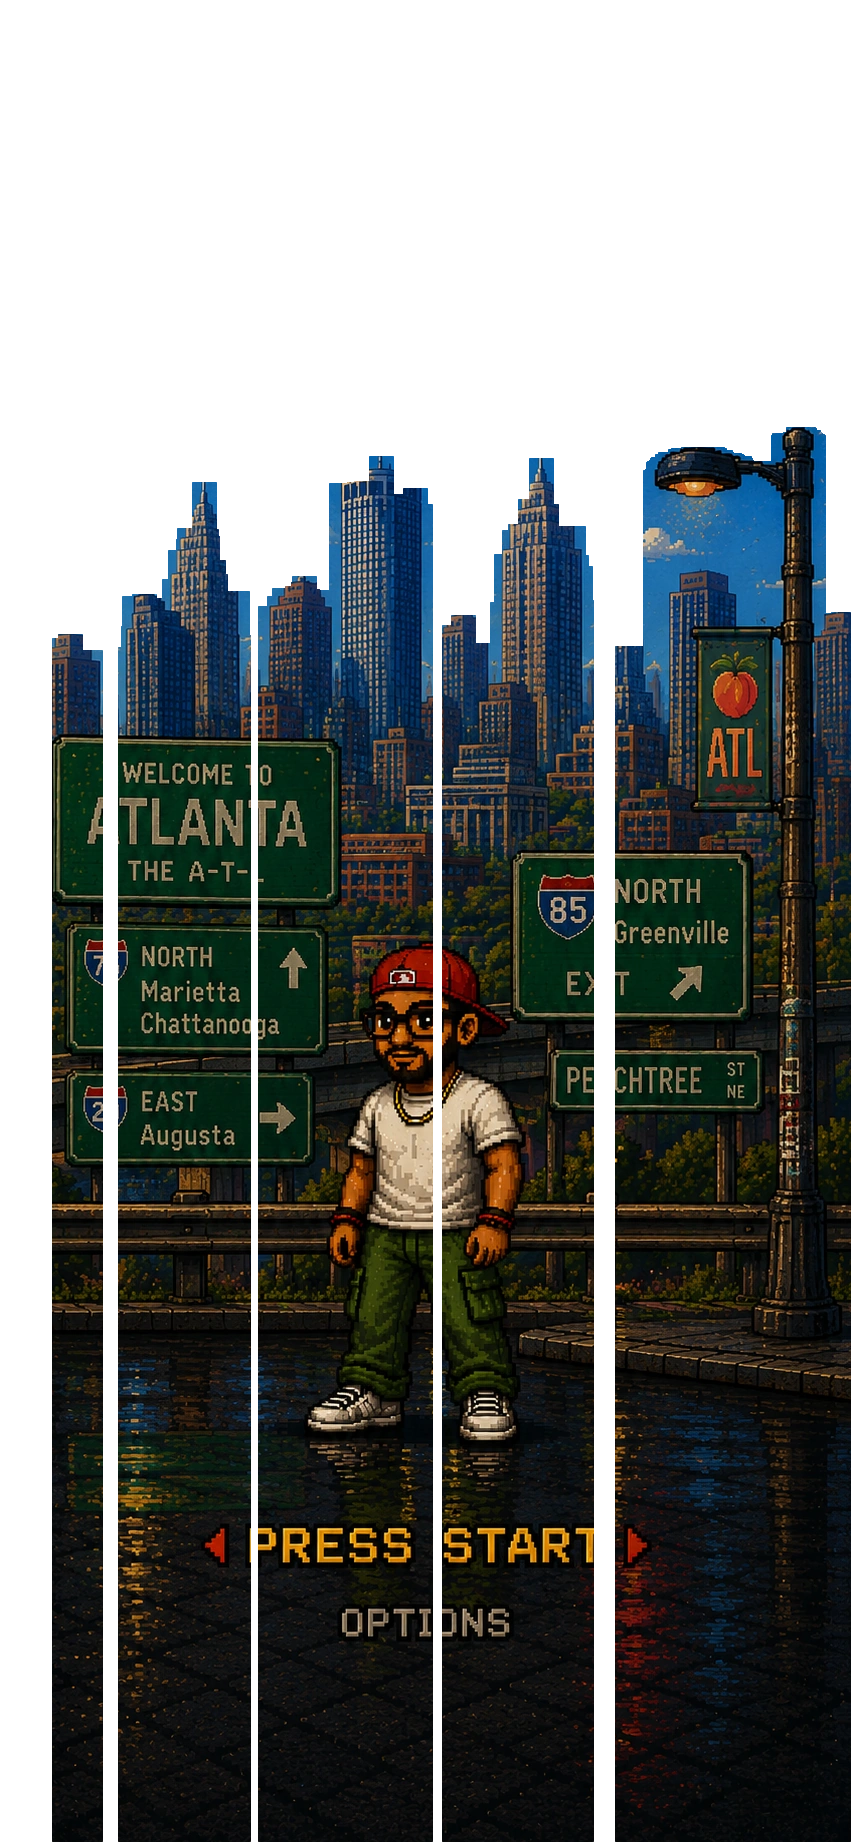
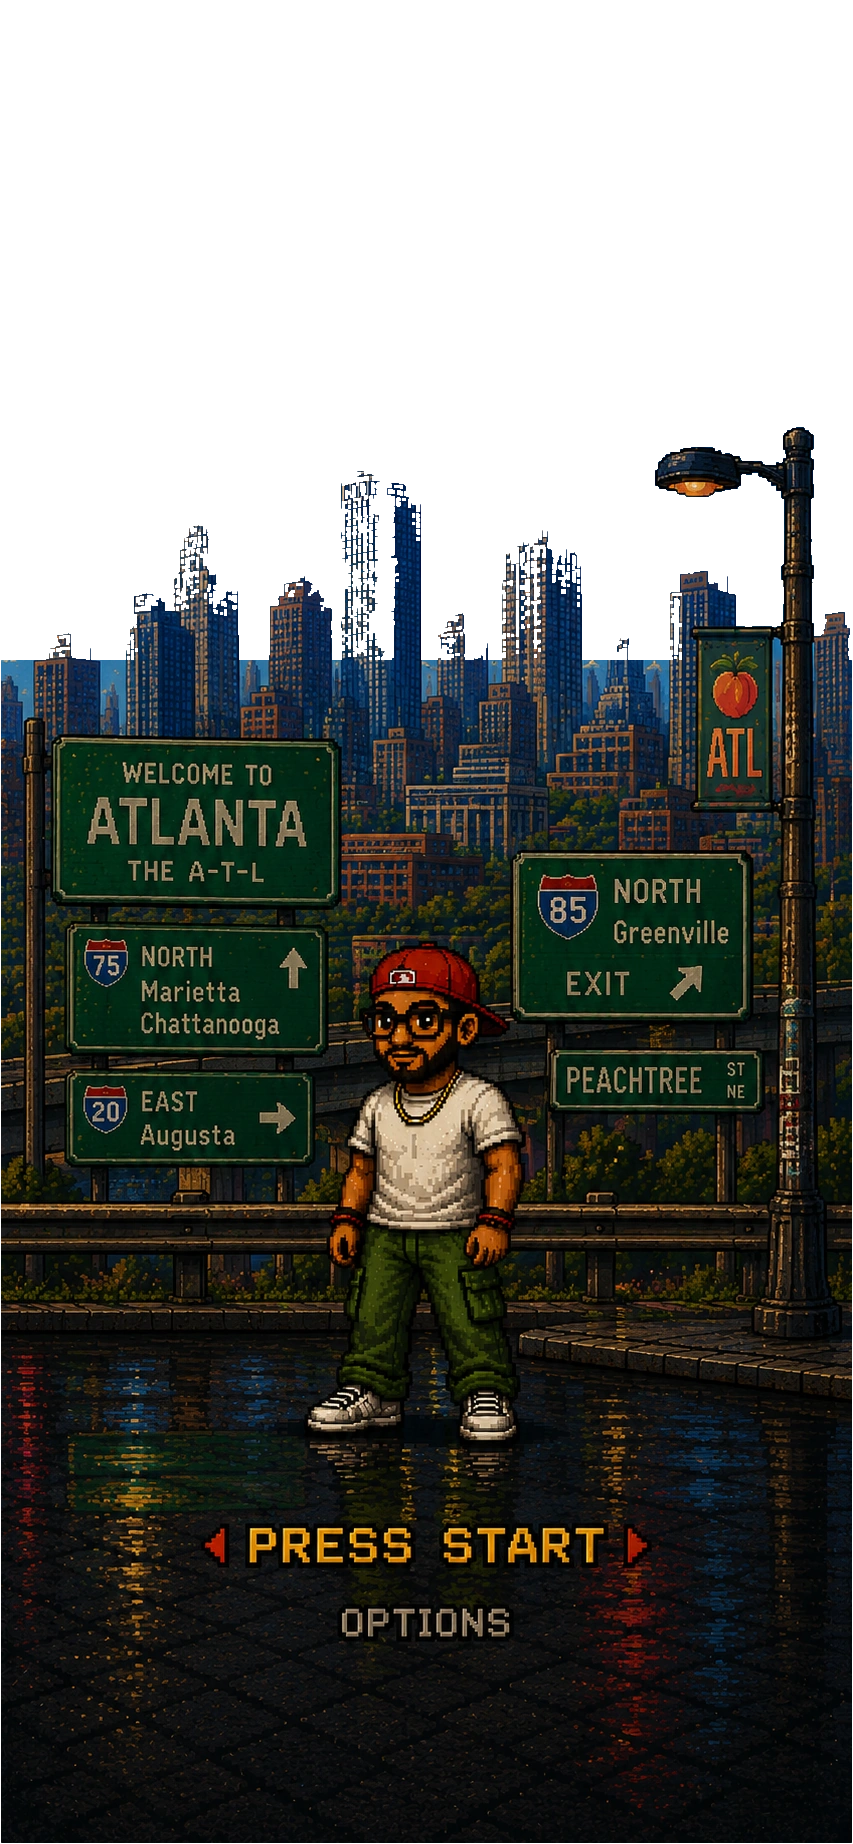
Clouds hide behind buildings only -- not behind sky, and no cut-out edges
Client, on the deployed build: "clouds can be seen moving behind the
fill space from cut outs.... not cool", then the rule plainly: "only
behind buildings.... and other white clouds. But never behind the sky,
former holes or patches and etc".

Both halves were real and both were mine.

1. THE TOWERS CARD CONTAINED SKY. It was built by taking a per-column
   skyline and filling downward from it, with that skyline minimum-
   filtered over 25 columns to be "conservative". Both parts put open
   sky inside the card: the min-filter dragged each spire's tip
   sideways across its 25 neighbours, and filling downward swallowed
   every patch of sky between and beside the buildings. Since that
   card draws over the far clouds, all of that invisible sky ate them
   -- clouds vanishing into nothing, exactly as reported.

   Replaced with a reachability test: sky is whatever the open air
   along the top of the frame can reach travelling through sky and
   cloud, and anything it cannot reach is enclosed, which means
   masonry. That sorts the two hard cases apart on its own -- a lit
   window is walled in on every side and becomes tower, while a gap
   between two towers still opens upward and stays sky. A plain colour
   key cannot tell those apart; closing with a big kernel and filling
   every hole (the first attempt) covered the windows but took 10.2%
   of the open sky with it. Reachability plus a 3px close: sky wrongly
[…]

Changed region(s): [[0.0, 0.2164, 0.9754, 1.0]]

diff --git a/tools/cut_title_clouds.py b/tools/cut_title_clouds.py
@@ -339,7 +339,15 @@ def main():
     print(f"  grain x{grain:.2f}: fill {energy(filled, fillmask):.2f} "
           f"vs real sky {target:.2f}")
     filled = filled.astype(np.uint8)
-    patch = np.dstack([filled, (fillmask.astype(np.uint8) * 255)])
+    # ⚠ FEATHER THE PATCH EDGE. A binary alpha means the inpainted sky butts
+    # against the real sky along a hard line, and a hard line is visible even
+    # when the colours either side match to under two levels — it reads as the
+    # cut-out shape of the cloud that used to be there. Softening the boundary
+    # dissolves it, the same fix the OPTIONS band needed.
+    falpha = ndimage.gaussian_filter(fillmask.astype(np.float32), 2.0)
+    falpha = np.clip((falpha - 0.15) / 0.7, 0, 1)
+    falpha[fillmask] = 1.0                  # never thin the middle of a fill
+    patch = np.dstack([filled, (falpha * 255).astype(np.uint8)])
     print(f"\nfill patch covers rows {ys.min()}..{ys.max()}, "
           f"cols {xs.min()}..{xs.max()}  (grain donor at x{bx})")
     Image.fromarray(patch, "RGBA").save(BG / "title-portrait-skyfill.webp",
@@ -357,13 +365,48 @@ def main():
     # band, because a cloud drifting at y589 has towers below it as well as
     # beside it, and a card that stopped short would let one slide out over
     # the street.
-    towers = np.zeros((H, W), bool)
-    for x in range(W):
-        if skyline[x] < H:
-            towers[skyline[x]:, x] = True
-    towers &= ~protect                      # never mask the lettering
-    # Close pinholes so window highlights inside a tower do not punch through.
-    towers = ndimage.binary_closing(towers, np.ones((5, 5), bool))
+    # ⚠ THE REAL SILHOUETTE, NOT "EVERYTHING BELOW A PER-COLUMN SKYLINE".
+    #
+    # The first version filled each column from its skyline row downward, and
+    # that skyline was minimum-filtered over 25 columns to be "conservative".
+    # Both of those put SKY inside the towers card: the min-filter dragged
+    # each spire's tip sideways across its 25 neighbours, and filling downward
+    # swallowed every patch of open sky between and beside the buildings.
+    #
+    # Because the towers card draws over the far clouds, all of that invisible
+    # sky ATE THEM. Client, exactly: "only behind buildings... and other white
+    # clouds. But never behind the sky, former holes or patches."
+    #
+    # So the mask is simply what is actually painted there — not sky, not
+    # cloud — which is the buildings themselves and nothing else. A cloud can
+    # then only ever be hidden by something a person can see.
+    # Sky is whatever the open air along the TOP of the frame can reach,
+    # travelling through sky and cloud. Anything it cannot reach is enclosed,
+    # and enclosed means masonry — which sorts the two hard cases apart on its
+    # own: a lit window is walled in on every side and becomes tower, while a
+    # gap between two towers still opens upward and stays sky.
+    #
+    # A plain colour key could not tell those apart. Closing it with a big
+    # kernel and filling every hole (the first attempt) covered the windows
+    # but swallowed 10.2% of the open sky in the skyline band with it.
+    # Reachability plus a 3px close gets that to 4.4% while still covering
+    # 93.4% of the masonry, and what is left is a pixel or two of halo on each
+    # building's own edge.
+    openable = sky | cloud | protect
+    seed = np.zeros((H, W), bool)
+    seed[0:3, :] = openable[0:3, :]
+    sky_open = ndimage.binary_propagation(seed, mask=openable)
+    towers = ~sky_open
+    towers[660:, :] = True                  # below the skyline it is all street
+    towers = ndimage.binary_closing(towers, np.ones((3, 3), bool))
+    towers &= ~protect
+    # Specks of "not sky" floating in open sky are dither, not architecture,
+    # and each one would clip a little bite out of a passing cloud.
+    tl, tn = ndimage.label(towers)
+    if tn:
+        keep = {i for i, sz in enumerate(ndimage.sum(towers, tl, range(1, tn + 1)), 1)
+                if sz >= 400}
+        towers = np.isin(tl, list(keep))
     tsoft = ndimage.gaussian_filter(towers.astype(np.float32), 0.6)
     talpha = np.clip((tsoft - 0.35) / 0.4, 0, 1)
     Image.fromarray(np.dstack([rgb, (talpha * 255).astype(np.uint8)]),
